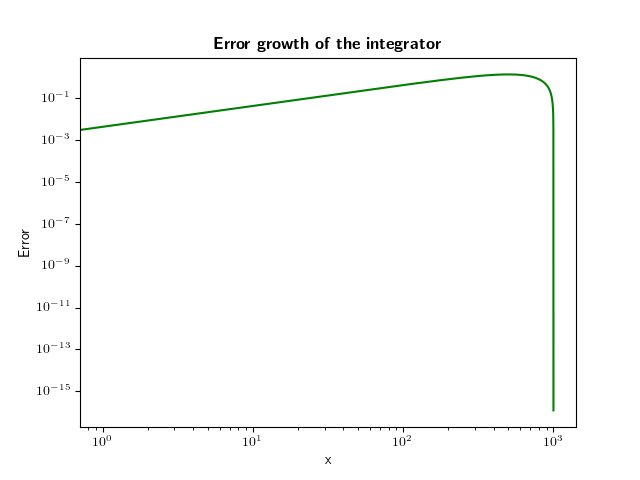
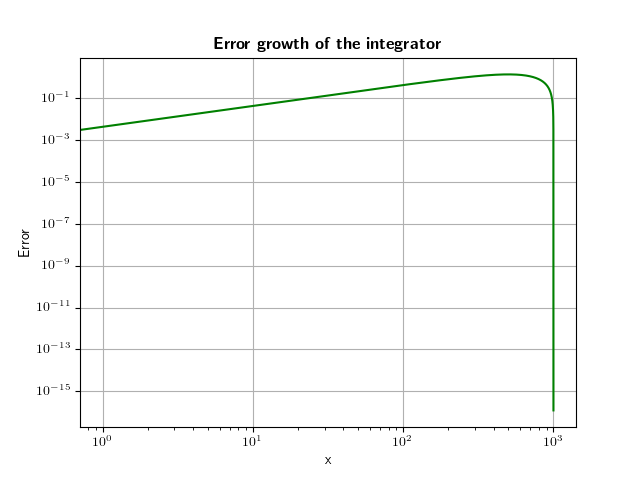
Add files via upload

diff --git a/Rayleigh-Ritz Method.py b/Rayleigh-Ritz Method.py
@@ -13,7 +13,7 @@ def rhs(x):
     '''This computes the rhs of the d.e.
     INPUT: the variable x'''
     return 2*(np.pi**2)*np.sin(np.pi*x)
-N =1000
+N =100
 x = np.linspace(0,1, N+1)
 
 h = []          #intialize space step
@@ -72,9 +72,9 @@ for i in range(N-1):
     
 #now compute  Q1,n , Q2,n , Q3,n , Q4,n Q4,n+1, Q5n, Q6,n
 
-q1n = (h[N]/12)*(p(x[N-1]) + q(x[N]))
-Q1.append(q1n)
-q2n = (h[N-1]/12)*(3*q(x[N]) + q(x[N-1]))
+#q1n = (h[N]/12)*(p(x[N-1]) + q(x[N]))
+#Q1.append(q1n)
+q2n = (h[N-2]/12)*(3*q(x[N-1]) + q(x[N-2]))
 Q2.append(q2n)
 q3n = (h[N]/12)*(3*q(x[N-1]) + q(x[N]))
 Q3.append(q3n)
@@ -82,7 +82,7 @@ q4n_last = (h[N-1]/2)*(p(x[N]) + p(x[N-1]))
 q4n_second_last = (h[N-2]/2)*(p(x[N-1]) + p(x[N-2]))
 Q4.append(q4n_second_last)
 Q4.append(q4n_last)
-q5n = (h[N]/6)*(2*rhs(x[N]) + rhs(x[N-1]))
+q5n = (h[N-1]/6)*(2*rhs(x[N-1]) + rhs(x[N-2]))
 Q5.append(q5n)
 q6n = (h[N]/6)*(2*rhs(x[N-1]) + rhs(x[N]))
 Q6.append(q6n)
@@ -141,12 +141,13 @@ print(df)
 #plotting 
 plt.grid()
 plt.plot(x, phi_new,x,  np.sin(np.pi*x), 'r')
-plt.legend(['Rayleigh-Rithz', 'Exact Solution'])
+plt.legend(['Rayleigh-Ritz', 'Exact Solution'])
 plt.xlabel(r'x')
 plt.ylabel(r'$\phi(x)$')
 plt.savefig('Results')
 plt.show()
 
+plt.grid()
 plt.loglog(np.linspace(0, N, N+1),error, 'g')
 plt.title(r'\textbf{Error growth of the integrator}')
 plt.xlabel(r'x')
